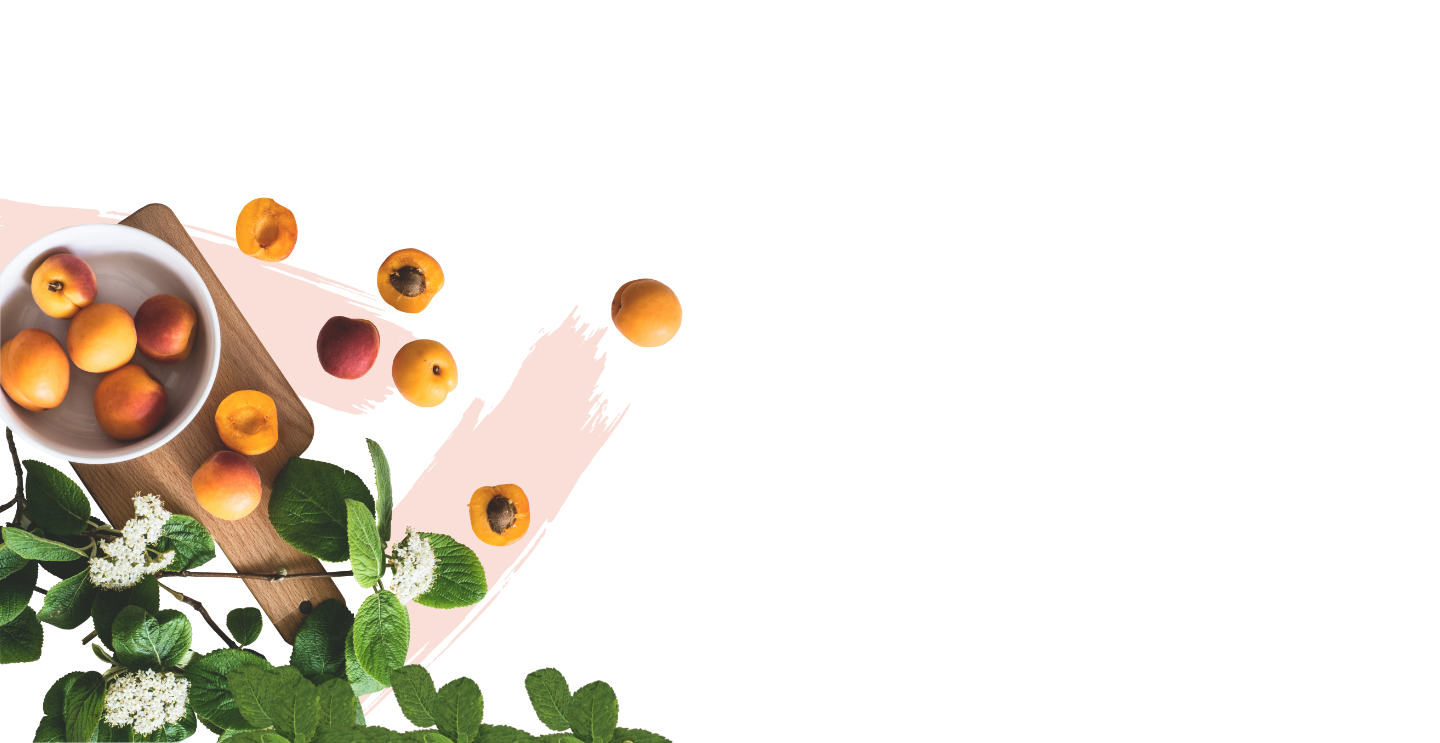
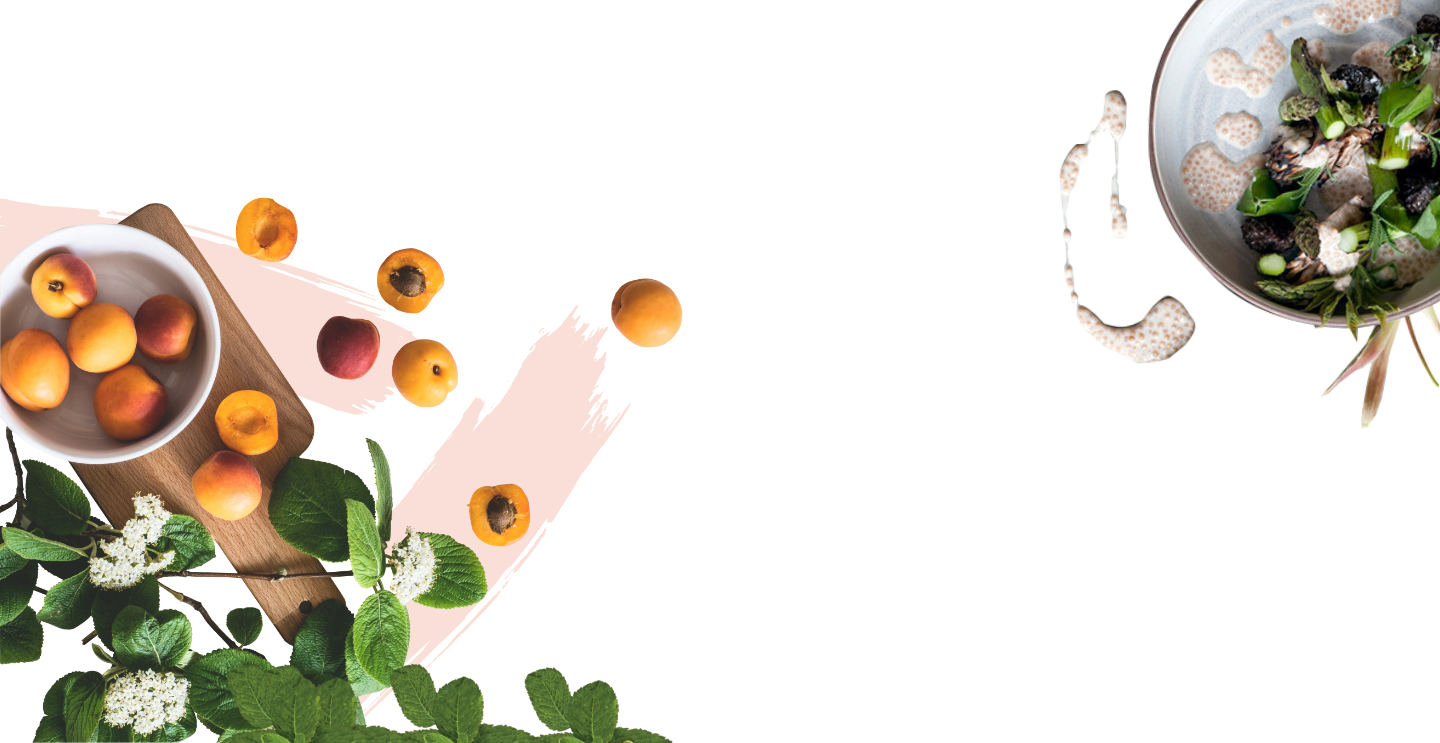
Add Service Pics

Changed region(s): [[0.7188, 0.0, 1.0, 0.5882], [0.7188, 0.3715, 0.75, 0.4024]]

diff --git a/Code Organization/css/style.css b/Code Organization/css/style.css
@@ -28,9 +28,9 @@ h2,h3 {
 }
 
 hr {
-  border-color: #f2af00;
+  border-color: #A3A3A3;
   margin: 0;
-  opacity: 0.3;
+  opacity: 1;
 }
 
 img {
@@ -107,7 +107,7 @@ img:hover {
 
 /* home section */
 #home {
-  background: url('../images/home-bg.jpg')no-repeat;
+  background: url('../images/Pr-jumbotron\ image.png')no-repeat;
   background-size: cover;
   background-position: center;
   min-height: 600px;
@@ -118,17 +118,19 @@ img:hover {
   color: #51806D;
   font-weight: 300;
   padding-bottom: 10px;
+  margin-left: 5px;
 }
 #home h2 {
   line-height: 10px;
   color: #A1D04C;
+  margin-left: 5px;
 
 }
 #home .btn {
-  background: rgba(255, 255, 255, 0.6);
-  border: 2px solid #444;
-  border-radius: 0px;
-  color: #444;
+  background: #579644;
+  border-radius: 5px;
+  color: white;
+  box-shadow: 0px 2px 8px 0px rgba(50, 50, 50, 0.08);
   font-family: 'Raleway', sans-serif;
   font-weight: bold;
   font-size: 16px;
@@ -136,16 +138,23 @@ img:hover {
   width: 180px;
   padding: 18px;
   margin-top: 20px;
+  margin-left: 5px;
    transition: all 0.4s ease-in-out;
     -webkit-transition: all 0.4s ease-in-out;
     -moz-transition: all 0.4s ease-in-out;
     -ms-transition: all 0.4s ease-in-out;
+    
 }
 #home .btn:hover {
   background: #A1D04C;
   border-color: transparent;
   color: #fff;
 }
+
+#home p{
+  margin-left: 5px;
+}
+
 
 /* service section */
 #service {
@@ -162,7 +171,8 @@ img:hover {
   margin-left: 150px;
   margin-right: 150px;
   line-height: 1.5;
-  color:#51806D
+  color:#51806D;
+  text-align: center;
 }
 
 #service .fa {
@@ -180,15 +190,21 @@ img:hover {
 
 /* about section */
 #about {
+  background: #EEF5EC;
   padding-top: 60px;
   padding-bottom: 80px;
 }
 #about h2 {
-  border-right: 2px solid #f2af00;
+  font-family: 'Raleway', sans-serif;
   display: inline-block;
-  padding: 10px 20px 10px 10px;
+  padding: 10px;
   letter-spacing: 1.5px;
   font-weight: 500;
+  margin-left: 150px;
+  margin-right: 150px;
+  line-height: 1.5;
+  color:#51806D;
+  text-align: center;
 }
 #about .col-md-12 {
   text-align: center;

diff --git a/Code Organization/index.html b/Code Organization/index.html
@@ -67,16 +67,14 @@
 	<div class="container">
 		<div class="row">
 			<div class="col-md-12 col-sm-12">
-				<h2><strong>Minimax Story</strong></h2>
+				<h2><strong>Who we are</strong></h2>
 			</div>
 			<div class="col-md-6 col-sm-6">
 				<img src="images/about-img.jpg" class="img-responsive" alt="about img">
 			</div>
 			<div class="col-md-6 col-sm-6">
-				<h3>ABOUT US</h3>
-				<h4>Talented Designers &amp; Developers</h4>
-				<p>Lorem ipsum dolor sit amet, consectetuer adipiscing elit, sed diam nonummy nibh euismod tincidunt ut laoreet. Dolore magna aliquam erat volutpat. Lorem ipsum dolor sit amet, consectetuer adipiscing elit, sed diam nonummy nibh euismod tincidunt ut laoreet.</p>
-				<p>Dolore magna aliquam erat volutpat. Lorem ipsum dolor sit amet, consectetuer adipiscing elit, sed diam nonummy nibh euismod tincidunt ut laoreet. Dolore magna aliquam erat volutpat.</p>
+				<p>Personal Remedies delivers advanced technology solutions that empower patients, caregivers and providers, with instant evidence-based and individualized guidance on chronic illnesses and dietary regimens. We enable personalized nutritional care plans that can lead to remarkable outcomes for patients and the world’s growing chronic illness challenges.</p>
+				<p>Our expert system maintains the most comprehensive science-based knowledgebase on food-disease interactions, allergies, dietary preferences, wellness and food-drug interactions in the market. We empower telehealth, ACO, integrative medicine and wellness providers to engage their patients in more proactive management of their own chronic conditions.</p>
 			</div>
 		</div>
 	</div>
@@ -105,6 +103,7 @@
 	<div class="container">
 		<div class="row">
 			<div class="col-md-4 col-sm-6 col-xs-10">
+					<img src="images/about-img.jpg" class="img-responsive" alt="about img">
 				<i class="fa fa-cubes"></i>
 					<h3>Knowledge</h3>
 					<p>Lorem ipsum dolor sit amet, consectetuer adipiscing elit, sed diam nonummy nibh euismod tincidunt ut laoreet. Dolore magna aliquam erat volutpat.</p>
